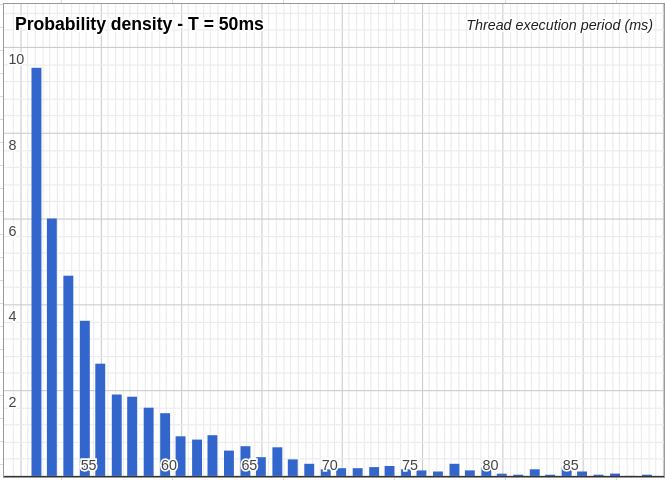
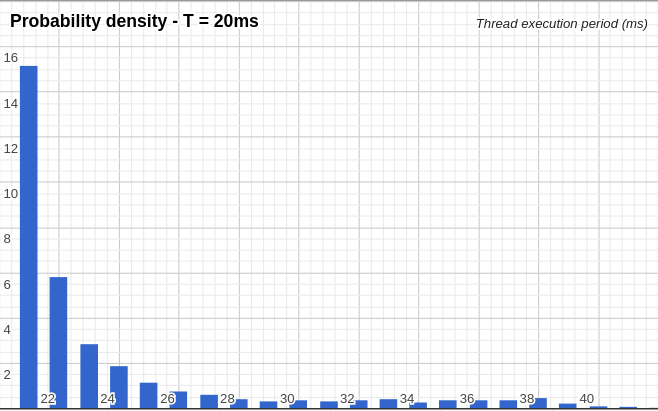
Update on Overleaf.

diff --git a/Chapters/ProjectD.tex b/Chapters/ProjectD.tex
@@ -36,26 +36,30 @@ This point is particularly important for designing the buffer on the VLC receive
 To determine the bus speed and the max effective transferred without error for each operation, we replaced the oxymeter module by an Arduino that will write diferents among of data on the bus. In addition, we use a logic analyzer to record what's happening on the bus.
 
 \subsubsection{Results}
-\begin{itemize}
 
 \begin{figure}[h]
   \begin{minipage}[c]{.46\linewidth}
     \centering
-    \scalebox{1}{\includegraphics[width=\textwidth]{Pictures/dsp20.png}}
+ \includegraphics[width=\textwidth, height=.70\linewidth]{Pictures/dsp20.png}
     \label{fig:dsp20}
     \rule{16em}{0.5pt}
-    \caption[Waveform on power-linel]{Waveform on power-line}
+    \caption[Probability density of Android thread execution interval with 20ms as defined period]{Probability density of Android thread execution interval with 20ms as defined period}
   \end{minipage}
   \hfill%
   \begin{minipage}[c]{.46\linewidth}
-  \centering
-    \scalebox{1}{\includegraphics[width=\textwidth]{Pictures/dsp50.png}}
+  \centering{
+    \scalebox{1}{\includegraphics[width=\textwidth]{Pictures/dsp50.png}}}
     \label{fig:dsp50}
     \rule{16em}{0.5pt}
-    \caption[Waveform on power-linel]{Waveform on power-line}
+    \caption[Probability density of Android thread execution interval with 50ms as defined period]{Probability density of Android thread execution interval with 50ms as defined period}
   \end{minipage}
+  
 \end{figure}
+\begin{center}
+Remark : as value lower than expected have no consequences, we doesn't plot them on the chart, but are taken in account in the probability repartitions.
+\end{center}
 
+\begin{itemize}
 \item Android threads can't reach lower period than 8ms but with an elevate variance, as we can see in .
 
 \item Performing statistical analysis, for each execution period and plotting the effective period distribution and variance, we can consider 30ms as safe.
@@ -65,7 +69,7 @@ On other hand, even if the kernel driver limits I/O operations to 512 bytes, the
 \end{itemize}
 
 \subsubsection{Conclusion}  \label{conclusion-ara}
-According to , we should design our VLC receiver module to taking account an effective bit-rate of 92,4 kbps and will developed the Android application with a module polling thread period to 30ms and an I2C transaction . 
+According to \ref{result-ara}, we should design our VLC receiver module to taking account an effective bit-rate of 92,4 kbps and will developed the Android application with a module polling thread period to 30ms and an I2C transaction . 
 
 
 \subsection{Ara benchmark}
@@ -76,28 +80,45 @@ In order to do that, we use a benchmark application that would simulate typical 
 
 During the stress tests, both CPU load and repartitions over running process, and RAM usage are monitored.
 
-\begin{figure}[h]
-  \begin{minipage}[c]{.46\linewidth}
-    \centering
-    \scalebox{0.9}{\includegraphics[width=\textwidth]{Pictures/cpu-singleapp.jpg}}
+\begin{figure}[htbp]
+    \centering{
+    \scalebox{0.7}{\includegraphics[width=\textwidth]{Pictures/cpu-singleapp.jpg}}}
     \label{fig:cpu-single}
-    \rule{16em}{0.5pt}
-    \caption[Waveform on power-linel]{Waveform on power-line}
-  \end{minipage}
-  \hfill%
-  \begin{minipage}[c]{.46\linewidth}
-  \centering
-    \scalebox{0.9}{\includegraphics[width=\textwidth]{Pictures/cpu-loadapp.jpg}}
+    \rule{35em}{0.5pt}
+    \caption[CPU load and repartition with only Oxymeter application running]{CPU load and repartitions with only Oxymeter application running}
+\end{figure}
+
+
+\begin{figure}[htpb]
+    \centering{
+    \scalebox{0.7}{\includegraphics[width=\textwidth]{Pictures/cpu-loadapp.jpg}}}
     \label{fig:cpu-load}
-    \rule{16em}{0.5pt}
-    \caption[Waveform on power-linel]{Waveform on power-line}
-  \end{minipage}
+    \rule{35em}{0.5pt}
+    \caption[CPU load and repartition during the web navigation simulation]{CPU load and repartition during the web navigation simulation}
 \end{figure}
 
 For each case, except the video game that made freeze and crash the Ara platform, results where exactly the same than with a single activity - ie. just our application - and we achieve the same bit-rate.
 
 \subsubsection{Conclusion}
+{
+Following conclusion in\ref{result-ara}, we are now able to determine the Digital-to-Analogic converter characteristic. In order to get the better ratio as posible between the resolution, the sampling rating, and and the clock rate we can achieve with the LED Driver Emitter,chosen values are summarized in the next table.
 
+\begin{table}[htpb]
+\begin{center}
+\begin{tabular}{|l|c|r|}
+  \hline
+  Sampling Rate & $\approx$ 1 MSPS \\
+  \hline
+  Resolution & 8-12 bits \\
+  \hline
+  Buffer Size & 200 bytes\\
+  \hline
+\end{tabular}
+\end{center}
+\caption{DAC needs summary}
+\label{conclusion-adc}
+\end{table}
+}
 
 %----------------------------------------------------------------------------------------
 %	Receiver circuit design
@@ -105,12 +126,28 @@ For each case, except the video game that made freeze and crash the Ara platform
 
 \section{Receiver circuit design}
 
+In this section, we will focus on the VLC module hardware design, which will have a major impact in the quality and eficienty of our system. 
+
 \subsection{Needs description}
-\subsection{Photodiode}
+
+The VLC receiver front-end circuit must detect with high frequency precision the modulated light within a range starting from 1kHz to 1Mhz. Before digitalization, the current generated by the photodiode has to be converted into current.
+As a major issue in VLC is the interferences - from the ambient light or the Ultraviolet - the signal should be properly filtered and amplified before digitalization.
+
+Our solution is constituted with a photodiode, witch convert the modulate light into current. It's followed by a trans-impedance amplifier in order to convert the photodiode output current into tension. Then, an analogic low-pass filter and gain are applied, before digitalization by the a microcontroller unit.
+
 \subsection{1st AOP : Current to tension converter}
+
+The first part of the circuit is the Trans-Impedance Amplifier, presented in \ref{trans}. TIA is a standard electronic design, and the capicitance and resistance in the feed-back loop are determined to compensate the photodiode capacitance.
+
+
+
 \subsection{2sd: Low Pass filter}
+
+
 \subsection{Gain}
 
+
+\
 %----------------------------------------------------------------------------------------
 %	Emitter driver
 %----------------------------------------------------------------------------------------

diff --git a/Chapters/Technical.tex b/Chapters/Technical.tex
@@ -207,10 +207,13 @@ than other sensors.
 
 \subsection{Line coding}
 
+IEEE 802.15.7 standard suggests use different lines for VLC PHY I, that can be use with OOK or VVMN modulation.
+
 \subsubsection{Manchester}
 
 \subsubsection{4B6B}
 
+\subsubsection{8B10B}
 
 
 \section{Ara Plateform}
